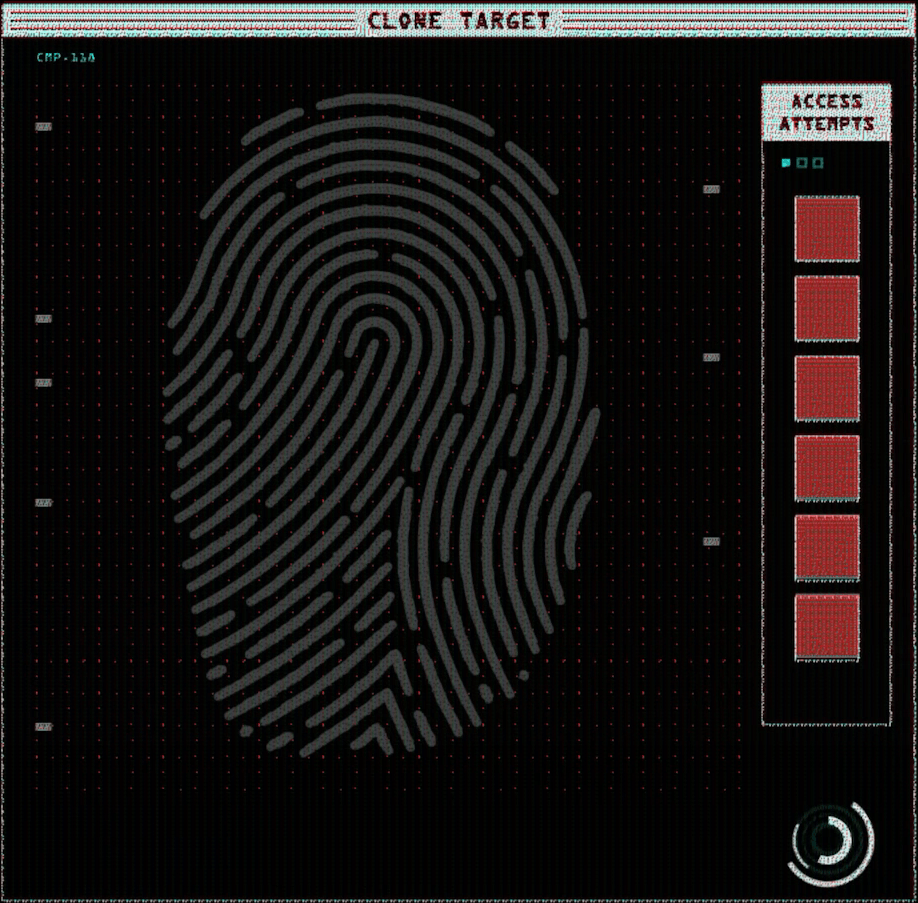
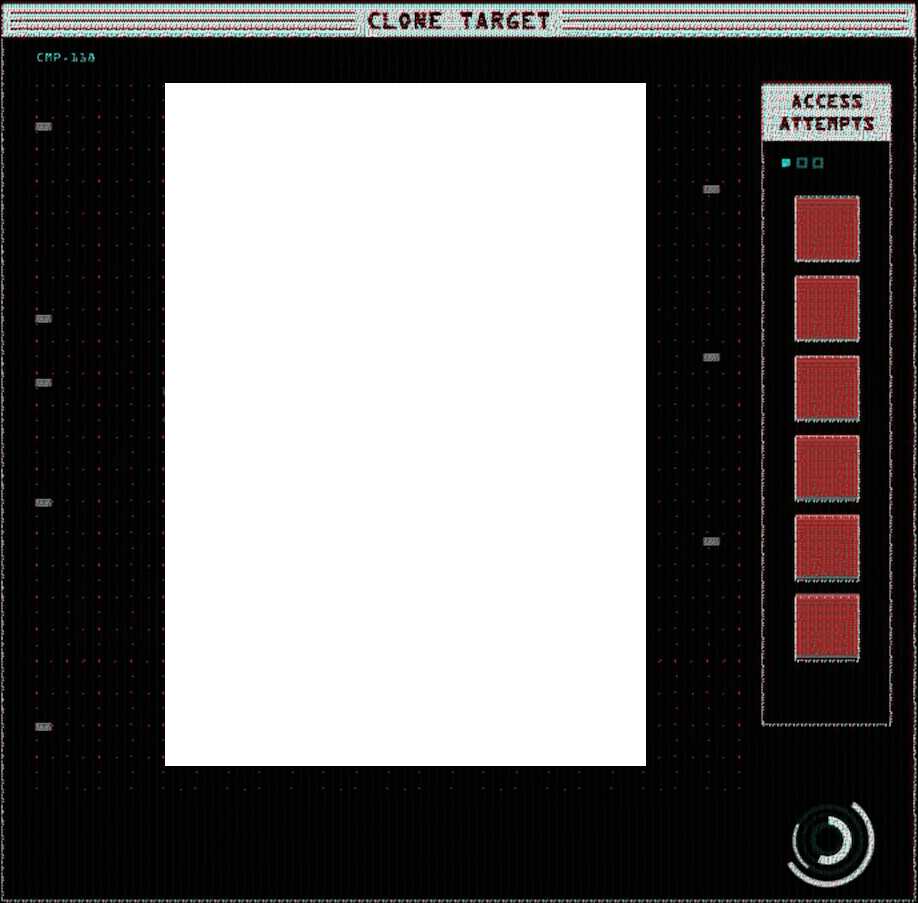
merges

diff --git a/my-app/app/components/games/casinoFingerprint/CasinoFingerprint.tsx b/my-app/app/components/games/casinoFingerprint/CasinoFingerprint.tsx
@@ -57,40 +57,95 @@ export default function CasinoFingerprint() {
   // targetSetId not used in the current right panel rendering, but retained for future logic
   const [targetSetId, setTargetSetId] = useState<number | null>(null);
   const [selectedTileIndexes, setSelectedTileIndexes] = useState<Set<number>>(new Set());
+  const [currentRound, setCurrentRound] = useState(0);
+  const ROUNDS_TOTAL = 2;
+  const MAX_SELECTIONS = 4;
+  const [isSubmitting, setIsSubmitting] = useState(false);
+  const [resultMessage, setResultMessage] = useState<string | null>(null);
 
   useEffect(() => {
     const shuffledOrder = shuffle(fingerprintOrder);
     setFingerprintOrder(shuffledOrder);
   }, []);
 
+  const buildRoundGrid = (target: number) => {
+    // Use ONLY the target set's pieces: 1..8
+    const pieces = [1,2,3,4,5,6,7,8].map((i) => ({ setId: target, index: i }));
+    return shuffle(pieces);
+  };
+
   const startGame = () => {
-    // pick 2 distinct print sets
     const [a, b] = shuffle(AVAILABLE_SET_IDS).slice(0, 2);
-    // pick 4 random unique pieces from each (1..8)
-    const idxs = shuffle([1,2,3,4,5,6,7,8]);
-    const aPieces = idxs.slice(0, 4).map((i) => ({ setId: a, index: i }));
-    const bPieces = shuffle([1,2,3,4,5,6,7,8]).slice(0, 4).map((i) => ({ setId: b, index: i }));
-    // mix and shuffle them
-    const mixed = shuffle([...aPieces, ...bPieces]);
+    const mixed = buildRoundGrid(a);
     setGridPieces(mixed);
     setSelectedSetIds([a, b]);
     setTargetSetId(a);
+    setSelectedTileIndexes(new Set());
+    setCurrentRound(0);
+    setResultMessage(null);
+    setIsSubmitting(false);
     setIsLocked(false);
   };
 
   const handleFingerprintClick = (index: number) => {
-    if (isLocked) return;
+    if (isLocked || isSubmitting) return;
     const next = new Set(selectedTileIndexes);
     if (next.has(index)) {
       next.delete(index);
     } else {
       // Enforce a maximum of 4 selected fingerprints
-      if (next.size >= 4) {
+      if (next.size >= MAX_SELECTIONS) {
         return;
       }
       next.add(index);
     }
     setSelectedTileIndexes(next);
+  };
+
+  const submitSelection = () => {
+    if (isLocked || isSubmitting) return;
+    if (selectedTileIndexes.size !== MAX_SELECTIONS) {
+      setResultMessage('Select exactly 4 fingerprints.');
+      return;
+    }
+    setIsSubmitting(true);
+    // Evaluate: all selected must belong to targetSetId and be indices 1..4
+    const required = new Set([1,2,3,4]);
+    const allCorrect = Array.from(selectedTileIndexes).every((tileIdx) => {
+      const piece = gridPieces[tileIdx];
+      return piece && piece.setId === targetSetId && required.has(piece.index);
+    });
+
+    setResultMessage(allCorrect ? 'Correct!' : 'Incorrect');
+
+    // Advance after a short delay
+    setTimeout(() => {
+      const [a, b] = selectedSetIds;
+      if (currentRound + 1 >= ROUNDS_TOTAL - 0) {
+        // If we were on the last round (1-based total of 2 rounds -> indices 0 and 1), reset
+        if (currentRound >= ROUNDS_TOTAL - 1) {
+          setIsLocked(true);
+          setGridPieces([]);
+          setTargetSetId(null);
+          setSelectedTileIndexes(new Set());
+          setResultMessage(null);
+          setIsSubmitting(false);
+          setCurrentRound(0);
+          return;
+        }
+      }
+
+      // Move to round 2 with the other set as target
+      const nextRound = currentRound + 1;
+      const nextTarget = targetSetId === a ? b : a;
+      const nextGrid = buildRoundGrid(nextTarget!);
+      setGridPieces(nextGrid);
+      setTargetSetId(nextTarget!);
+      setSelectedTileIndexes(new Set());
+      setCurrentRound(nextRound);
+      setResultMessage(null);
+      setIsSubmitting(false);
+    }, 1200);
   };
 
   // Fallback content (before start) shows print1 tiles in a shuffled order
@@ -105,6 +160,17 @@ export default function CasinoFingerprint() {
     const set = PRINT_SETS[p.setId];
     return `/casinoFingerprints/${set.dir}/casinofp${p.index}.${set.ext}`;
   };
+
+  useEffect(() => {
+    const onKeyDown = (e: KeyboardEvent) => {
+      if (e.key === 'Tab') {
+        e.preventDefault();
+        submitSelection();
+      }
+    };
+    window.addEventListener('keydown', onKeyDown);
+    return () => window.removeEventListener('keydown', onKeyDown);
+  }, [submitSelection, isLocked, isSubmitting, selectedTileIndexes, gridPieces, targetSetId, currentRound, selectedSetIds]);
 
   return (
     <div className='flex items-center justify-center min-h-screen'>
@@ -168,11 +234,20 @@ export default function CasinoFingerprint() {
 
             {/* Right column: target box and deciphered signals box stacked */}
             <div className='flex flex-col items-center justify-start gap-4' style={{ width: scaled(DIMENSIONS.targetBox.w) }}>
-              <img
-                src={'/casinoFingerprints/clone_target.png'}
-                alt='Target Box'
-                style={{ width: '461px', height: '455px' }}
-              />
+              <div className='relative' style={{ width: '461px', height: '455px' }}>
+                <img
+                  src={'/casinoFingerprints/clone_target.png'}
+                  alt='Target Box'
+                  className='w-full h-[full] object-contain '
+                />
+                {targetSetId !== null && (
+                  <img
+                    src={`/casinoFingerprints/${PRINT_SETS[targetSetId].dir}/fpFull.png`}
+                    alt='Target Fingerprint'
+                    className='absolute inset-0 w-[88.2%] h-[80%] object-contain pointer-events-none mt-10.25'
+                  />)
+                }
+              </div>
               <img
                 src={'/casinoFingerprints/deciphered_signals_box.png'}
                 alt='Deciphered Signals Box'
@@ -193,6 +268,16 @@ export default function CasinoFingerprint() {
           </div>
         )}
       </div>
+      {resultMessage && (
+        <div className="pointer-events-none fixed inset-x-0 top-4 z-30 flex justify-center">
+          <div className={cn(
+            'px-4 py-2 rounded-md text-sm font-medium',
+            resultMessage === 'Correct!' ? 'bg-green-500 text-black' : 'bg-red-500 text-white'
+          )}>
+            {resultMessage}
+          </div>
+        </div>
+      )}
     </div>
   );
 }
